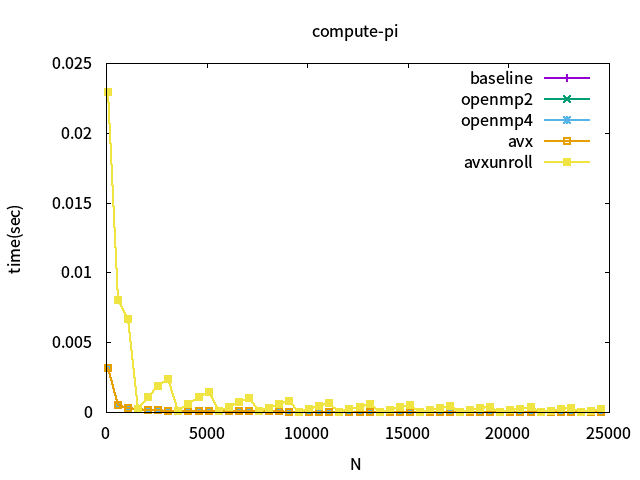
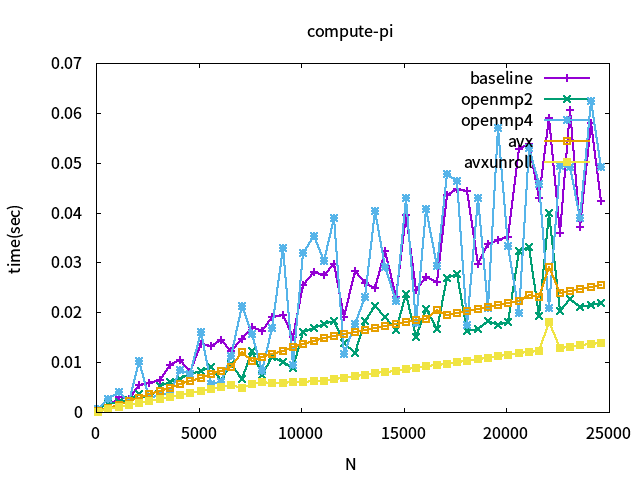
gnuplot to compare error rate

diff --git a/benchmark_clock_gettime.c b/benchmark_clock_gettime.c
@@ -26,8 +26,8 @@ int main(int argc, char const *argv[])
     diff = pi - M_PI > 0 ? pi - M_PI : M_PI -pi;
     error = diff / M_PI;
     printf("%lf,",error);
-    //printf("%lf,", (double) (end.tv_sec - start.tv_sec) +
-    //       (end.tv_nsec - start.tv_nsec)/ONE_SEC);
+    printf("%lf,", (double) (end.tv_sec - start.tv_sec) +
+           (end.tv_nsec - start.tv_nsec)/ONE_SEC);
 
     // OpenMP with 2 threads
     clock_gettime(CLOCK_ID, &start);
@@ -38,8 +38,8 @@ int main(int argc, char const *argv[])
     diff = pi - M_PI > 0 ? pi - M_PI : M_PI -pi;
     error = diff / M_PI;
     printf("%lf,",error);
-    //printf("%lf,", (double) (end.tv_sec - start.tv_sec) +
-    //       (end.tv_nsec - start.tv_nsec)/ONE_SEC);
+    printf("%lf,", (double) (end.tv_sec - start.tv_sec) +
+           (end.tv_nsec - start.tv_nsec)/ONE_SEC);
 
     // OpenMP with 4 threads
     clock_gettime(CLOCK_ID, &start);
@@ -50,8 +50,8 @@ int main(int argc, char const *argv[])
     diff = pi - M_PI > 0 ? pi - M_PI : M_PI -pi;
     error = diff / M_PI;
     printf("%lf,",error);
-    //printf("%lf,", (double) (end.tv_sec - start.tv_sec) +
-    //       (end.tv_nsec - start.tv_nsec)/ONE_SEC);
+    printf("%lf,", (double) (end.tv_sec - start.tv_sec) +
+           (end.tv_nsec - start.tv_nsec)/ONE_SEC);
 
     // AVX SIMD
     clock_gettime(CLOCK_ID, &start);
@@ -62,8 +62,8 @@ int main(int argc, char const *argv[])
     diff = pi - M_PI > 0 ? pi - M_PI : M_PI -pi;
     error = diff / M_PI;
     printf("%lf,",error);
-    //printf("%lf,", (double) (end.tv_sec - start.tv_sec) +
-    //       (end.tv_nsec - start.tv_nsec)/ONE_SEC);
+    printf("%lf,", (double) (end.tv_sec - start.tv_sec) +
+           (end.tv_nsec - start.tv_nsec)/ONE_SEC);
 
     // AVX SIMD + Loop unrolling
     clock_gettime(CLOCK_ID, &start);
@@ -73,9 +73,9 @@ int main(int argc, char const *argv[])
     clock_gettime(CLOCK_ID, &end);
     diff = pi - M_PI > 0 ? pi - M_PI : M_PI -pi;
     error = diff / M_PI;
-    printf("%lf\n",error);
-    //printf("%lf\n", (double) (end.tv_sec - start.tv_sec) +
-    //       (end.tv_nsec - start.tv_nsec)/ONE_SEC);
+    printf("%lf,",error);
+    printf("%lf\n", (double) (end.tv_sec - start.tv_sec) +
+           (end.tv_nsec - start.tv_nsec)/ONE_SEC);
 
     return 0;
 }
